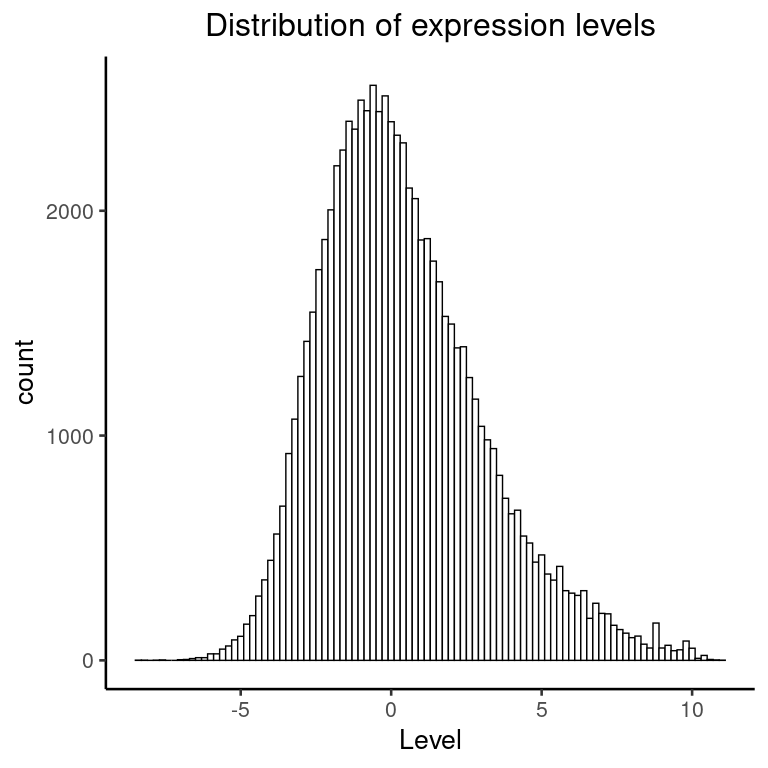
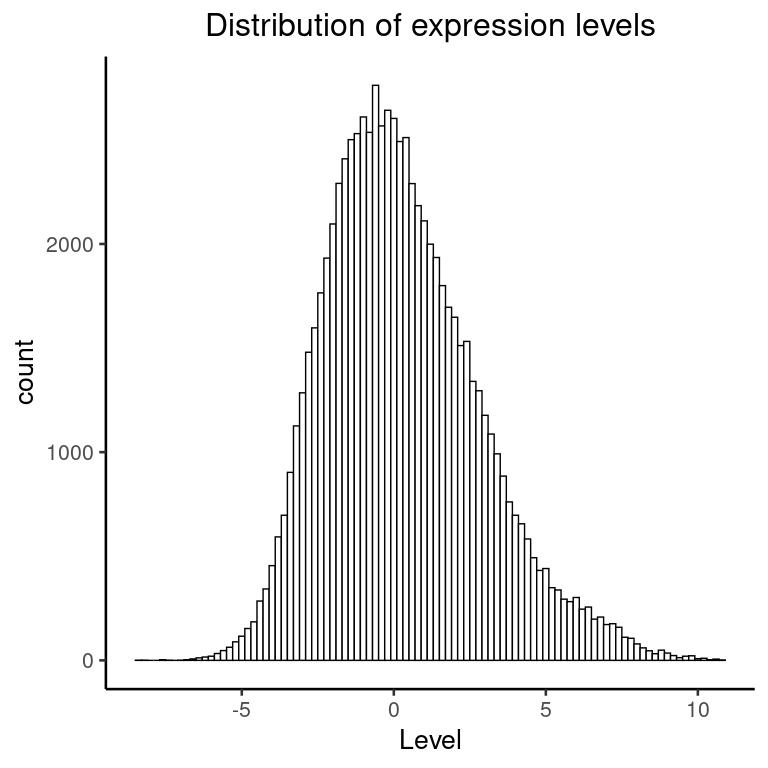
docs: update README

diff --git a/README.md b/README.md
@@ -92,59 +92,47 @@ R package `targidcn` contains:
     -   `GetConnectivity()`
     -   `GetHubGenes()`
     -   `ModuleSignificance()`
+    -   `BindModuleSignificance()`
     -   `ModuleTraitHeatmap()`
     -   `GeneSignificance()`
     -   `ModuleMembership()`
+    -   `GetRelatedHubGenes()`
 
 ## Tutorial
 
 ``` r
+library(data.table)
 library(magrittr)
 library(targidcn) %>% suppressMessages()
 
-datadir = system.file("extdata", "MS_label-free", package = "targidcn")
+datadir = system.file("extdata", "MS_label-free", "MaxQuantOutput_50", package = "targidcn")
+pheno = ReadPhenotypeTable(file.path(datadir, "phenotype.txt"))
 assay = ReadProteinGroups(datadir)
 assay
 #> An object of class ProteinGroups
 #> 
-#> 111 Experiment(s): "147", "151", "162", ...
+#> 111 Experiment(s): "UCA_1", "UCA_2", "UCA_3", ...
 #> 1 Assay(s): "Intensity"
-#>  1591 features across 111 samples within assay 1.
+#>  853 features across 111 samples within assay 1.
 ```
 
 ``` r
-cn = 
-  assay %>% 
+cn = assay %>% 
+  AddPhenotype(pheno) %>% 
   Tidy() %>% 
   QC() %>% 
   Reshape() %>% 
   LogTransform() %>% 
   Normalize() %>% 
-  PickThreshold() %>% 
-  AddNetwork() %>% 
+  AddNetwork(power = 6) %>% 
   AddConnectivity()
-#> Allowing parallel execution with up to 4 working processes.
-#>    Power SFT.R.sq slope truncated.R.sq mean.k. median.k. max.k.
-#> 1      1    0.230 -1.79         0.9890 160.000  1.58e+02  268.0
-#> 2      2    0.533 -1.68         0.9790  48.900  4.54e+01  123.0
-#> 3      3    0.789 -1.67         0.9460  18.800  1.61e+01   65.5
-#> 4      4    0.877 -1.93         0.9180   8.470  6.37e+00   43.9
-#> 5      5    0.922 -1.98         0.9130   4.310  2.81e+00   33.8
-#> 6      6    0.931 -1.88         0.9130   2.430  1.31e+00   28.5
-#> 7      7    0.324 -2.89         0.1830   1.510  6.56e-01   25.6
-#> 8      8    0.314 -2.60         0.1580   1.020  3.49e-01   23.8
-#> 9      9    0.191 -2.44        -0.0318   0.750  1.90e-01   22.8
-#> 10    10    0.296 -2.14         0.1330   0.588  1.06e-01   22.2
-#> 11    12    0.149 -1.73        -0.0766   0.422  3.58e-02   21.5
-#> 12    14    0.192 -1.78        -0.0362   0.346  1.26e-02   21.2
-#> 13    16    0.284 -1.55         0.1410   0.306  4.73e-03   21.1
-#> 14    18    0.283 -1.47         0.1440   0.282  1.80e-03   21.1
-#> 15    20    0.285 -1.41         0.1480   0.265  7.18e-04   21.0
+#> Warning in QC.ProteinGroups(.): No column for checking false hits!
+#> Warning in QC.ProteinGroups(.): No column for checking unique peptides!
 #> ..connectivity..
 #> ..matrix multiplication (system BLAS)..
 #> ..normalization..
 #> ..done.
-#>  ..cutHeight not given, setting it to 0.994  ===>  99% of the (truncated) height range in dendro.
+#>  ..cutHeight not given, setting it to 0.999  ===>  99% of the (truncated) height range in dendro.
 #>  ..done.
 #>  mergeCloseModules: Merging modules whose distance is less than 0.15
 #>    Calculating new MEs...
@@ -154,70 +142,70 @@ cn =
 cn
 #> An object of class CorrelationNetwork
 #> 
-#> 111 Experiment(s): "147", "151", "162", ...
+#> 111 Experiment(s): "UCA_1", "UCA_2", "UCA_3", ...
 #> 1 Assay(s): "Intensity"
-#>  818 features across 111 samples within assay 1.
+#>  846 features across 111 samples within assay 1.
 #> 
 #> Attributes:
 #> List of 5
-#>  $ phenotype    :'data.frame':   0 obs. of  0 variables
+#>  $ phenotype    :'data.frame':   111 obs. of  3 variables:
+#>   ..$ Diagnosis: chr [1:111] "UC" "UC" "UC" "UC" ...
+#>   ..$ Illness  : int [1:111] 1 1 1 1 1 1 1 1 1 1 ...
+#>   ..$ Remission: int [1:111] 0 0 0 0 0 0 0 0 0 0 ...
 #>  $ QC           :Classes 'data.table' and 'data.frame':  1 obs. of  6 variables:
 #>   ..$ Assay                         : chr "Intensity"
-#>   ..$ Raw data                      : int 1591
-#>   ..$ Remove false hits             : int 1531
-#>   ..$ With gene names               : int 1509
-#>   ..$ Unique peptides >= 2          : int 1126
-#>   ..$ goodGenes, min.fraction >= 0.5: int 818
+#>   ..$ Raw data                      : int 853
+#>   ..$ Remove false hits             : int 853
+#>   ..$ With gene names               : int 853
+#>   ..$ Unique peptides >= 2          : int 853
+#>   ..$ goodGenes, min.fraction >= 0.5: int 846
 #>   ..- attr(*, ".internal.selfref")=<externalptr> 
-#>  $ powerEstimate:List of 1
-#>   ..$ Intensity: num 4
+#>  $ powerEstimate: list()
 #>  $ network      :List of 1
 #>   ..$ Intensity:List of 10
-#>   .. ..$ power           : num 4
+#>   .. ..$ power           : num 6
 #>   .. ..$ MEDissThres     : num 0.15
 #>   .. ..$ minModuleSize   : num 30
-#>   .. ..$ adjacency       : num [1:818, 1:818] 1.00 3.10e-07 6.58e-10 9.50e-04 1.13e-03 ...
+#>   .. ..$ adjacency       : num [1:846, 1:846] 1.00 1.78e-07 3.47e-04 1.31e-06 2.02e-12 ...
 #>   .. .. ..- attr(*, "dimnames")=List of 2
-#>   .. .. .. ..$ : chr [1:818] "CLCA1" "IGLL5;IGLC1" "PDLIM1" "MYO1C" ...
-#>   .. .. .. ..$ : chr [1:818] "CLCA1" "IGLL5;IGLC1" "PDLIM1" "MYO1C" ...
-#>   .. ..$ dissTOM         : num [1:818, 1:818] 0 0.995 0.994 0.992 0.992 ...
+#>   .. .. .. ..$ : chr [1:846] "A1BG" "AGR2" "ANXA2.ANXA2P2" "BSG" ...
+#>   .. .. .. ..$ : chr [1:846] "A1BG" "AGR2" "ANXA2.ANXA2P2" "BSG" ...
+#>   .. ..$ dissTOM         : num [1:846, 1:846] 0 0.999 0.997 0.999 1 ...
 #>   .. ..$ geneTree        :List of 7
-#>   .. .. ..$ merge      : int [1:817, 1:2] -65 -670 1 -359 3 -232 -794 -77 5 -191 ...
-#>   .. .. ..$ height     : num [1:817] 0.392 0.403 0.435 0.458 0.468 ...
-#>   .. .. ..$ order      : int [1:818] 265 675 628 62 56 403 630 366 479 627 ...
+#>   .. .. ..$ merge      : int [1:845, 1:2] -17 -352 -23 -18 -318 -597 -431 -493 3 -173 ...
+#>   .. .. ..$ height     : num [1:845] 0.62 0.677 0.686 0.687 0.691 ...
+#>   .. .. ..$ order      : int [1:846] 796 250 187 598 175 234 628 712 58 227 ...
 #>   .. .. ..$ labels     : NULL
 #>   .. .. ..$ method     : chr "average"
 #>   .. .. ..$ call       : language fastcluster::hclust(d = stats::as.dist(dissTOM), method = "average")
 #>   .. .. ..$ dist.method: NULL
 #>   .. .. ..- attr(*, "class")= chr "hclust"
-#>   .. ..$ moduleEigengenes:'data.frame':  111 obs. of  7 variables:
-#>   .. .. ..$ MEgreen    : num [1:111] 0.0244 0.1157 -0.0578 0.0668 0.0986 ...
-#>   .. .. ..$ MEturquoise: num [1:111] 0.0927 0.1283 0.1358 0.1086 0.0934 ...
-#>   .. .. ..$ MEblue     : num [1:111] 0.0447 0.0442 0.1142 0.1116 0.0294 ...
-#>   .. .. ..$ MEyellow   : num [1:111] 0.0267 0.0481 0.0396 0.044 0.0705 ...
-#>   .. .. ..$ MEred      : num [1:111] -0.051965 -0.094088 -0.011963 0.000277 -0.05732 ...
-#>   .. .. ..$ MEblack    : num [1:111] -0.04727 0.00409 0.01239 -0.05464 0.06629 ...
-#>   .. .. ..$ MEbrown    : num [1:111] 0.0306 0.1201 0.0131 -0.0917 0.1399 ...
-#>   .. ..$ moduleColors    : Named chr [1:818] "green" "yellow" "blue" "blue" ...
-#>   .. .. ..- attr(*, "names")= chr [1:818] "CLCA1" "IGLL5;IGLC1" "PDLIM1" "MYO1C" ...
-#>   .. ..$ moduleLabels    : Named num [1:818] 5 4 2 2 1 1 3 1 3 3 ...
-#>   .. .. ..- attr(*, "names")= chr [1:818] "CLCA1" "IGLL5;IGLC1" "PDLIM1" "MYO1C" ...
-#>   .. ..$ unmergedColors  : Named chr [1:818] "green" "yellow" "blue" "blue" ...
-#>   .. .. ..- attr(*, "names")= chr [1:818] "CLCA1" "IGLL5;IGLC1" "PDLIM1" "MYO1C" ...
+#>   .. ..$ moduleEigengenes:'data.frame':  111 obs. of  5 variables:
+#>   .. .. ..$ MEturquoise: num [1:111] -0.2971 -0.0318 0.0856 -0.132 0.0428 ...
+#>   .. .. ..$ MEblue     : num [1:111] 0.0794 0.063 -0.0601 -0.0131 -0.2603 ...
+#>   .. .. ..$ MEbrown    : num [1:111] -0.024 0.076 -0.0939 -0.1834 -0.1365 ...
+#>   .. .. ..$ MEyellow   : num [1:111] -0.1034 0.061 -0.0071 -0.0687 -0.1588 ...
+#>   .. .. ..$ MEgrey     : num [1:111] -0.1788 -0.1398 -0.0985 -0.1133 -0.1283 ...
+#>   .. ..$ moduleColors    : Named chr [1:846] "turquoise" "blue" "yellow" "turquoise" ...
+#>   .. .. ..- attr(*, "names")= chr [1:846] "A1BG" "AGR2" "ANXA2.ANXA2P2" "BSG" ...
+#>   .. ..$ moduleLabels    : Named num [1:846] 1 2 4 1 0 1 4 1 1 1 ...
+#>   .. .. ..- attr(*, "names")= chr [1:846] "A1BG" "AGR2" "ANXA2.ANXA2P2" "BSG" ...
+#>   .. ..$ unmergedColors  : Named chr [1:846] "turquoise" "blue" "yellow" "turquoise" ...
+#>   .. .. ..- attr(*, "names")= chr [1:846] "A1BG" "AGR2" "ANXA2.ANXA2P2" "BSG" ...
 #>  $ connectivity :List of 1
-#>   ..$ Intensity:Classes 'data.table' and 'data.frame':   818 obs. of  6 variables:
-#>   .. ..$ gene   : chr [1:818] "ALDH1A1" "CLYBL" "SNRPB;SNRPN" "CHMP5" ...
-#>   .. ..$ kTotal : num [1:818] 43.9 43.9 41.2 37.5 36.2 ...
-#>   .. ..$ kWithin: num [1:818] 32 32 28 27.6 27.3 ...
-#>   .. ..$ kOut   : num [1:818] 11.92 11.92 13.15 9.95 8.93 ...
-#>   .. ..$ kDiff  : num [1:818] 20.1 20.1 14.9 17.6 18.3 ...
-#>   .. ..$ module : num [1:818] 1 1 1 1 1 1 1 1 1 1 ...
+#>   ..$ Intensity:Classes 'data.table' and 'data.frame':   846 obs. of  6 variables:
+#>   .. ..$ gene   : chr [1:846] "C3" "HP" "APOA1" "A2M" ...
+#>   .. ..$ kTotal : num [1:846] 0.915 1.144 1.013 0.553 0.667 ...
+#>   .. ..$ kWithin: num [1:846] 0.424 0.379 0.311 0.176 0.122 ...
+#>   .. ..$ kOut   : num [1:846] 0.49 0.765 0.701 0.377 0.545 ...
+#>   .. ..$ kDiff  : num [1:846] -0.0659 -0.3865 -0.3899 -0.2008 -0.4232 ...
+#>   .. ..$ module : num [1:846] 0 0 0 0 0 0 0 0 0 0 ...
 #>   .. ..- attr(*, ".internal.selfref")=<externalptr>
 ```
 
 ``` r
 cn %>% Histogram(preview = TRUE)
-#> Warning: Removed 15206 rows containing non-finite values (stat_bin).
+#> Warning: Removed 14993 rows containing non-finite values (stat_bin).
 ```
 
 <img src="man/figures/README-unnamed-chunk-6-1.png" width="60%" />
@@ -236,36 +224,52 @@ cn %>% ModulePlot(preview = TRUE)
 
 ``` r
 cn %>% GetHubGenes()
-#>        gene         ensembl                                   fullname   kTotal
-#>  1: ALDH1A1 ENSG00000165092  aldehyde dehydrogenase 1 family member A1 43.89376
-#>  2:   CLYBL ENSG00000125246                       citramalyl-CoA lyase 43.89376
-#>  3:  SPTBN1 ENSG00000115306          spectrin beta, non-erythrocytic 1 24.85082
-#>  4:    MDH2 ENSG00000146701                     malate dehydrogenase 2 26.49073
-#>  5: HSP90B1 ENSG00000166598 heat shock protein 90 beta family member 1 15.48458
-#>  6:    SCIN ENSG00000006747                                  scinderin 22.50675
-#>  7:     HPX ENSG00000110169                                  hemopexin 32.85560
-#>  8:    CDV3 ENSG00000091527                               CDV3 homolog 30.07123
-#>  9:   RAB2A ENSG00000104388          RAB2A, member RAS oncogene family 30.50436
-#> 10:    TPM3 ENSG00000143549                              tropomyosin 3 26.24318
-#> 11:   RPS18 ENSG00000231500                      ribosomal protein S18 22.13689
-#> 12:   RBM8A ENSG00000265241               RNA binding motif protein 8A 10.39302
-#> 13:   ECHS1 ENSG00000127884         enoyl-CoA hydratase, short chain 1 14.96758
-#> 14:  RPL23A ENSG00000198242                     ribosomal protein L23a 12.97417
-#>       kWithin      kOut      kDiff module
-#>  1: 31.972834 11.920928 20.0519059      1
-#>  2: 31.972834 11.920928 20.0519059      1
-#>  3: 14.057922 10.792901  3.2650213      2
-#>  4: 13.007820 13.482913 -0.4750932      2
-#>  5:  9.536351  5.948226  3.5881251      3
-#>  6:  9.011228 13.495519 -4.4842908      3
-#>  7: 15.300028 17.555571 -2.2555426      4
-#>  8: 14.591160 15.480066 -0.8889061      4
-#>  9: 13.880218 16.624144 -2.7439255      4
-#> 10:  9.382158 16.861017 -7.4788592      5
-#> 11:  9.114045 13.022842 -3.9087972      5
-#> 12:  3.814425  6.578593 -2.7641682      6
-#> 13:  3.981047 10.986535 -7.0054880      7
-#> 14:  3.644575  9.329599 -5.6850232      7
+#>      gene         ensembl                                             fullname
+#> 1: ATP12A ENSG00000075673 ATPase H+/K+ transporting non-gastric alpha2 subunit
+#> 2: ATP1A1 ENSG00000163399           ATPase Na+/K+ transporting subunit alpha 1
+#> 3:   ENO1 ENSG00000074800                                            enolase 1
+#> 4: COL6A1 ENSG00000142156                       collagen type VI alpha 1 chain
+#> 5:    DCN ENSG00000011465                                              decorin
+#> 6: COL6A2 ENSG00000142173                       collagen type VI alpha 2 chain
+#> 7:    DLD ENSG00000091140                       dihydrolipoamide dehydrogenase
+#> 8: SUCLG2 ENSG00000172340        succinate-CoA ligase GDP-forming subunit beta
+#>       kTotal   kWithin      kOut      kDiff module
+#> 1:  8.493045  5.030402 3.4626427  1.5677597      1
+#> 2:  5.720120  4.883286 0.8368346  4.0464514      1
+#> 3:  8.331755  6.325000 2.0067549  4.3182450      2
+#> 4: 14.027675 11.122084 2.9055901  8.2164943      3
+#> 5: 14.676139 10.986816 3.6893238  7.2974918      3
+#> 6: 13.141510 10.078089 3.0634212  7.0146680      3
+#> 7:  8.740479  4.281549 4.4589306 -0.1773816      4
+#> 8:  7.336496  3.912245 3.4242513  0.4879937      4
+```
+
+``` r
+samples1 = pheno$table[is.na(Remission) | Remission == 0, Experiment]
+samples2 = pheno$table[!is.na(Remission), Experiment]
+mt1 = ModuleSignificance(cn, samples = samples1, traits = "Illness", prefix = "UC")
+mt2 = ModuleSignificance(cn, samples = samples2, traits = "Remission", prefix = "UC")
+mt = BindModuleSignificance(mt1, mt2)
+```
+
+``` r
+mt %>% ModuleTraitHeatmap(preview = TRUE)
+```
+
+<img src="man/figures/README-unnamed-chunk-11-1.png" width="60%" />
+
+``` r
+mt %>% GetRelatedHubGenes()
+#>      gene         ensembl                                             fullname
+#> 1: ATP12A ENSG00000075673 ATPase H+/K+ transporting non-gastric alpha2 subunit
+#> 2: ATP1A1 ENSG00000163399           ATPase Na+/K+ transporting subunit alpha 1
+#> 3:    DLD ENSG00000091140                       dihydrolipoamide dehydrogenase
+#> 4: SUCLG2 ENSG00000172340        succinate-CoA ligase GDP-forming subunit beta
+#>      kTotal  kWithin      kOut      kDiff module
+#> 1: 8.493045 5.030402 3.4626427  1.5677597      1
+#> 2: 5.720120 4.883286 0.8368346  4.0464514      1
+#> 3: 8.740479 4.281549 4.4589306 -0.1773816      4
+#> 4: 7.336496 3.912245 3.4242513  0.4879937      4
 ```
 
 ## References
